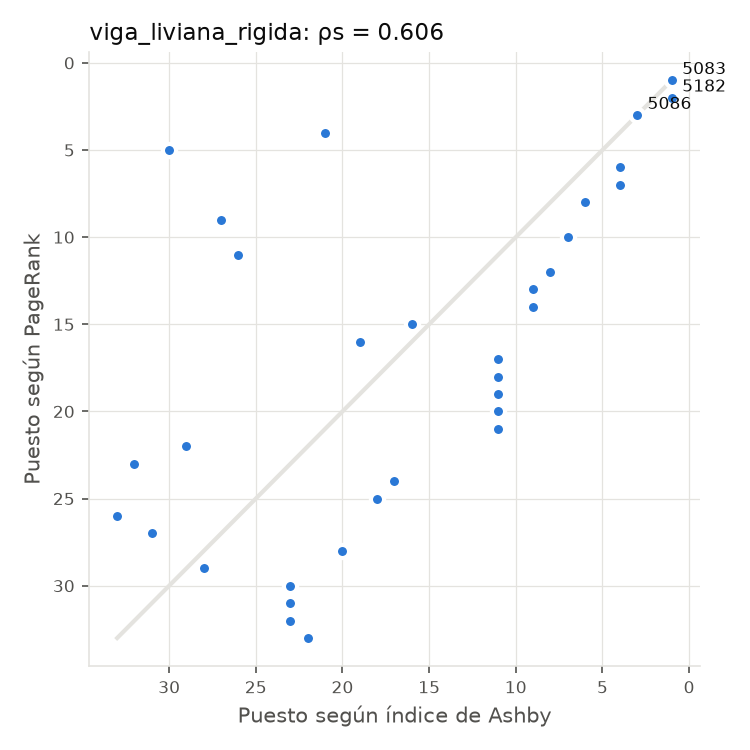
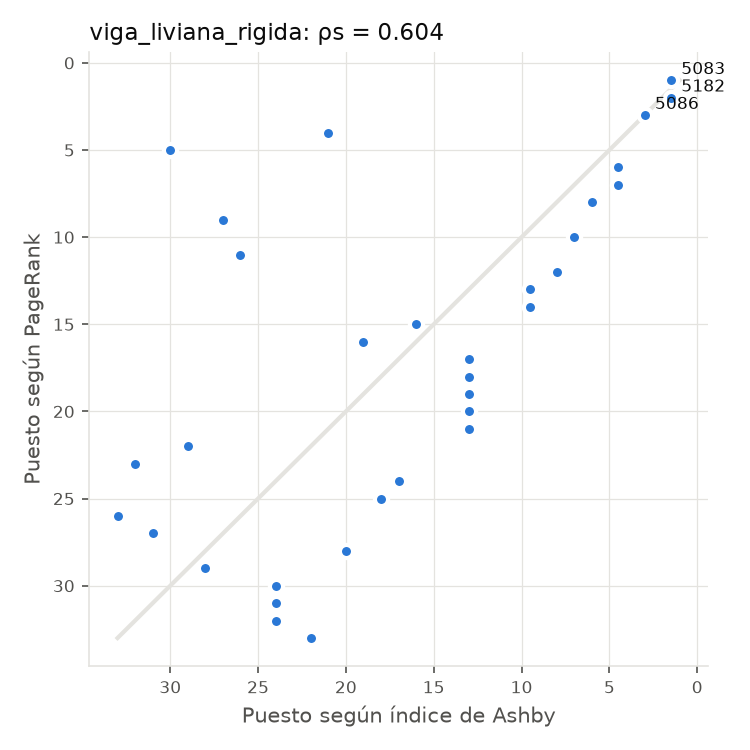
Actualizo  validacion para comparar los puestos de PageRank con los puestos de Ashby, en lugar de correlacionar directamente el puntaje PageRank con el indice numerico de Ashby y agrego instrucciones en COMOEJECUTAR. TXT

diff --git a/tests/test_validacion.py b/tests/test_validacion.py
@@ -13,9 +13,9 @@ class TestValidacion(unittest.TestCase):
         self.assertAlmostEqual(idx["b"], 400 / 2800)
 
     def test_spearman_extremos(self):
-        a = pd.Series([1, 2, 3, 4], index=list("wxyz"))
-        self.assertAlmostEqual(spearman(a, a * 10), 1.0)
-        self.assertAlmostEqual(spearman(a, -a), -1.0)
+        puestos = pd.Series([1, 2, 3, 4], index=list("wxyz"))
+        self.assertAlmostEqual(spearman(puestos, puestos), 1.0)
+        self.assertAlmostEqual(spearman(puestos, pd.Series([4, 3, 2, 1], index=puestos.index)), -1.0)
 
     def test_comparar_metricas(self):
         rk = pd.DataFrame({"pagerank": [0.5, 0.3, 0.2], "puesto": [1, 2, 3]}, index=list("abc"))
@@ -23,6 +23,30 @@ class TestValidacion(unittest.TestCase):
         self.assertEqual(met["spearman"], 1.0)
         self.assertEqual(met["top2_coincidencias"], 2)
         self.assertEqual(list(comp["puesto_ashby"]), [1, 2, 3])
+
+    def test_comparar_correlaciona_puestos_no_puntajes(self):
+        rk = pd.DataFrame({
+            "pagerank": [0.5, 0.3, 0.2],
+            "puesto": [1, 2, 3],
+        }, index=list("abc"))
+        indice = pd.Series([1000.0, 100.0, 10.0], index=list("abc"))
+
+        comp, met = comparar(rk, indice)
+
+        self.assertEqual(list(comp["puesto_ashby"]), [1, 2, 3])
+        self.assertEqual(met["spearman"], 1.0)
+
+    def test_comparar_usa_solo_materiales_compartidos(self):
+        rk = pd.DataFrame({
+            "pagerank": [0.5, 0.3, 0.2],
+            "puesto": [1, 2, 3],
+        }, index=list("abc"))
+        indice = pd.Series([5.0, 4.0], index=list("ab"))
+
+        comp, met = comparar(rk, indice, k=1)
+
+        self.assertEqual(list(comp.index), list("ab"))
+        self.assertEqual(met["n_nodos"], 2)
 
 
 if __name__ == "__main__":

diff --git a/src/smo/validacion.py b/src/smo/validacion.py
@@ -21,20 +21,21 @@ def indice_ashby(nodos: pd.DataFrame, expresion: str) -> pd.Series:
     return nodos.eval(expresion).astype(float).rename("indice_ashby")
 
 
-def spearman(a: pd.Series, b: pd.Series) -> float:
-    a, b = a.align(b, join="inner")
-    return float(a.rank().corr(b.rank()))
+def spearman(puesto_a: pd.Series, puesto_b: pd.Series) -> float:
+    """Correlaciona dos series de puestos, alineadas por identificador."""
+    puesto_a, puesto_b = puesto_a.align(puesto_b, join="inner")
+    return float(puesto_a.corr(puesto_b))
 
 
 def comparar(ranking: pd.DataFrame, indice: pd.Series, k: int = 5) -> tuple[pd.DataFrame, dict]:
     """Agrega el índice y su puesto al ranking, y devuelve métricas de acuerdo."""
-    df = ranking.join(indice)
-    df["puesto_ashby"] = df["indice_ashby"].rank(ascending=False, method="min").astype(int)
+    df = ranking.join(indice.rename("indice_ashby"), how="inner")
+    df["puesto_ashby"] = df["indice_ashby"].rank(ascending=False, method="average")
     top_pr = set(df.nsmallest(k, "puesto").index)
     top_ashby = set(df.nsmallest(k, "puesto_ashby").index)
     metricas = {"n_nodos": len(df),
-                "spearman": round(spearman(df["pagerank"], df["indice_ashby"]), 3),
+                "spearman": round(spearman(df["puesto"], df["puesto_ashby"]), 3),
                 f"top{k}_coincidencias": len(top_pr & top_ashby),
-                "mejor_pagerank": df.index[0],
-                "mejor_ashby": df["indice_ashby"].idxmax()}
+                "mejor_pagerank": df["puesto"].idxmin(),
+                "mejor_ashby": df["puesto_ashby"].idxmin()}
     return df, metricas

diff --git a/src/smo/tolerancias.py b/src/smo/tolerancias.py
@@ -3,7 +3,7 @@
 La tolerancia t es el semiancho de la vecindad: el nodo ocupa [v - t, v + t].
 Dos nodos se "tocan" en un atributo si |v1 - v2| <= t1 + t2.
 
-Estrategias (Strategy):
+Estrategias:
   - "rango":      t = fracción · (máx − mín del atributo en la colección).
         Normaliza atributos con dispersiones y unidades distintas (vuelve
         comparables E, que varía ~6 %, y Rp0,2, que varía ~15 veces).

diff --git a/docs/diseno.md b/docs/diseno.md
@@ -34,7 +34,7 @@ Versión liviana de la metodología de Ingeniería de Software (pasos 1 a 6). Lo
 | RF5 | Construir la red primaria: una arista por cada atributo cuyas vecindades se sobrelapan, orientada hacia el valor creciente | Test: caso de 3 nodos armado a mano |
 | RF6 | Extraer la sub‑red de trabajo según los criterios (atributos relevantes y si se maximizan o minimizan) | Test: solo quedan aristas de los atributos elegidos |
 | RF7 | Rankear la sub‑red con PageRank y devolver solo materiales (sin elementos) | Test: las probabilidades suman 1 |
-| RF8 | Comparar el ranking con un índice de Ashby (correlación de Spearman) | Test: el índice coincide con el cálculo manual |
+| RF8 | Comparar los puestos del ranking PageRank y del índice de Ashby mediante Spearman | Test: los puestos coinciden con el cálculo manual |
 | RF9 | Exportar el ranking (CSV) y una figura de la red | Los archivos existen después de correr |
 
 ### No funcionales
